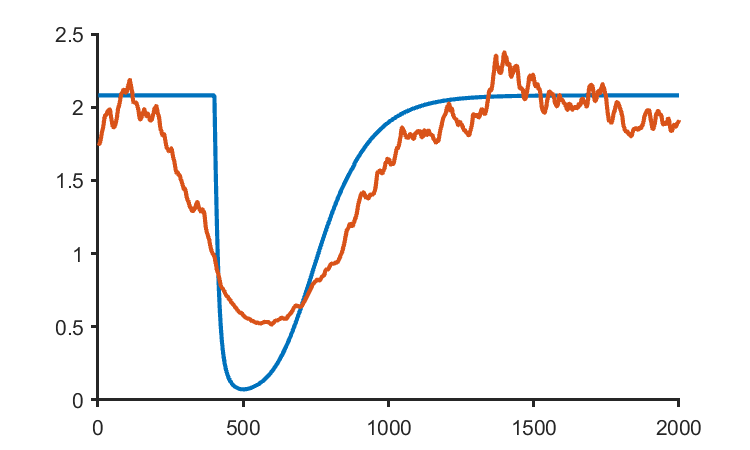
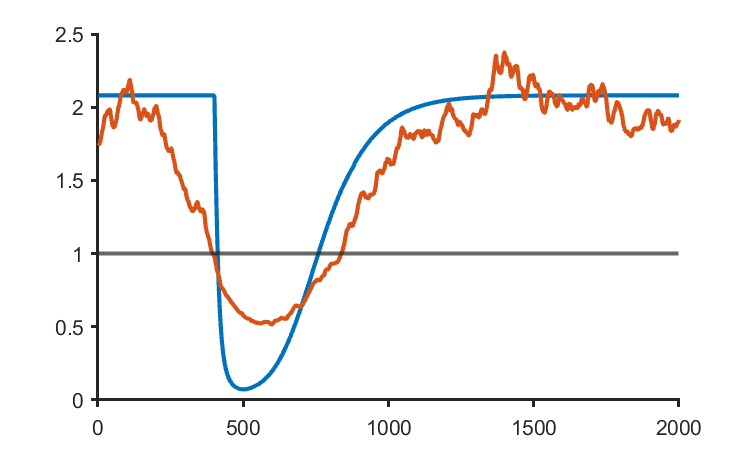
FF plot modify

Changed region(s): [[0.1227, 0.56, 0.92, 0.5911]]

diff --git a/demo/figure2/demo_figure2.m b/demo/figure2/demo_figure2.m
@@ -212,6 +212,7 @@ FF = figure;
 hold on
 plot(theo_var./theo_mean, 'LineWidth', 2)
 plot(CMP_var_fit./CMP_mean_fit, 'LineWidth', 2)
+yline(1, 'LineWidth', 2);
 hold off
 set(gca,'FontSize',10, 'LineWidth', 1.5,'TickDir','out')
 box off
